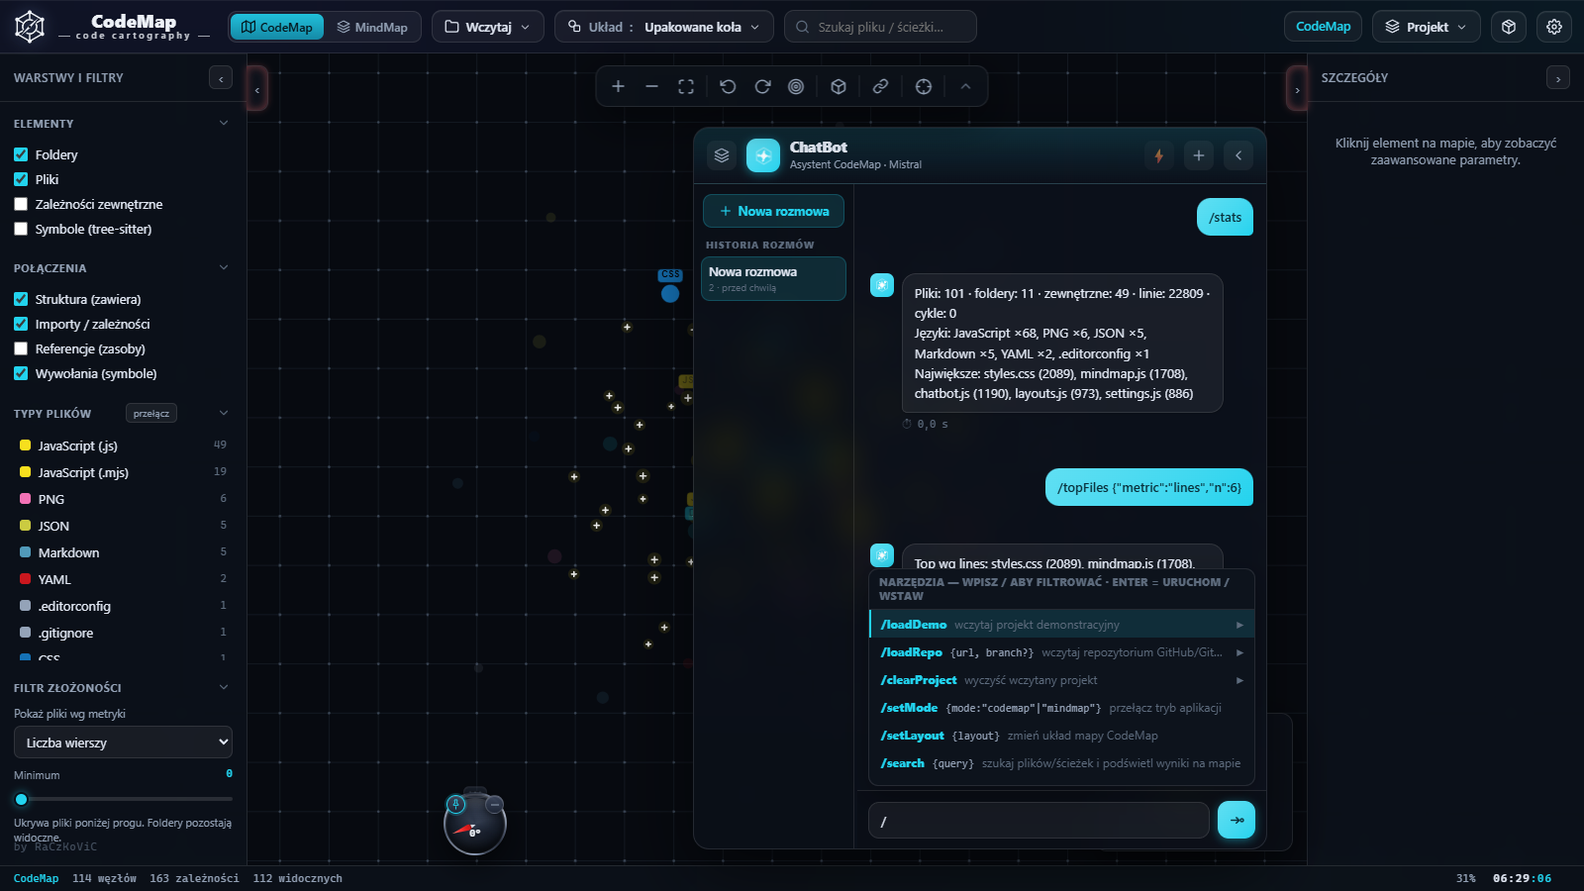
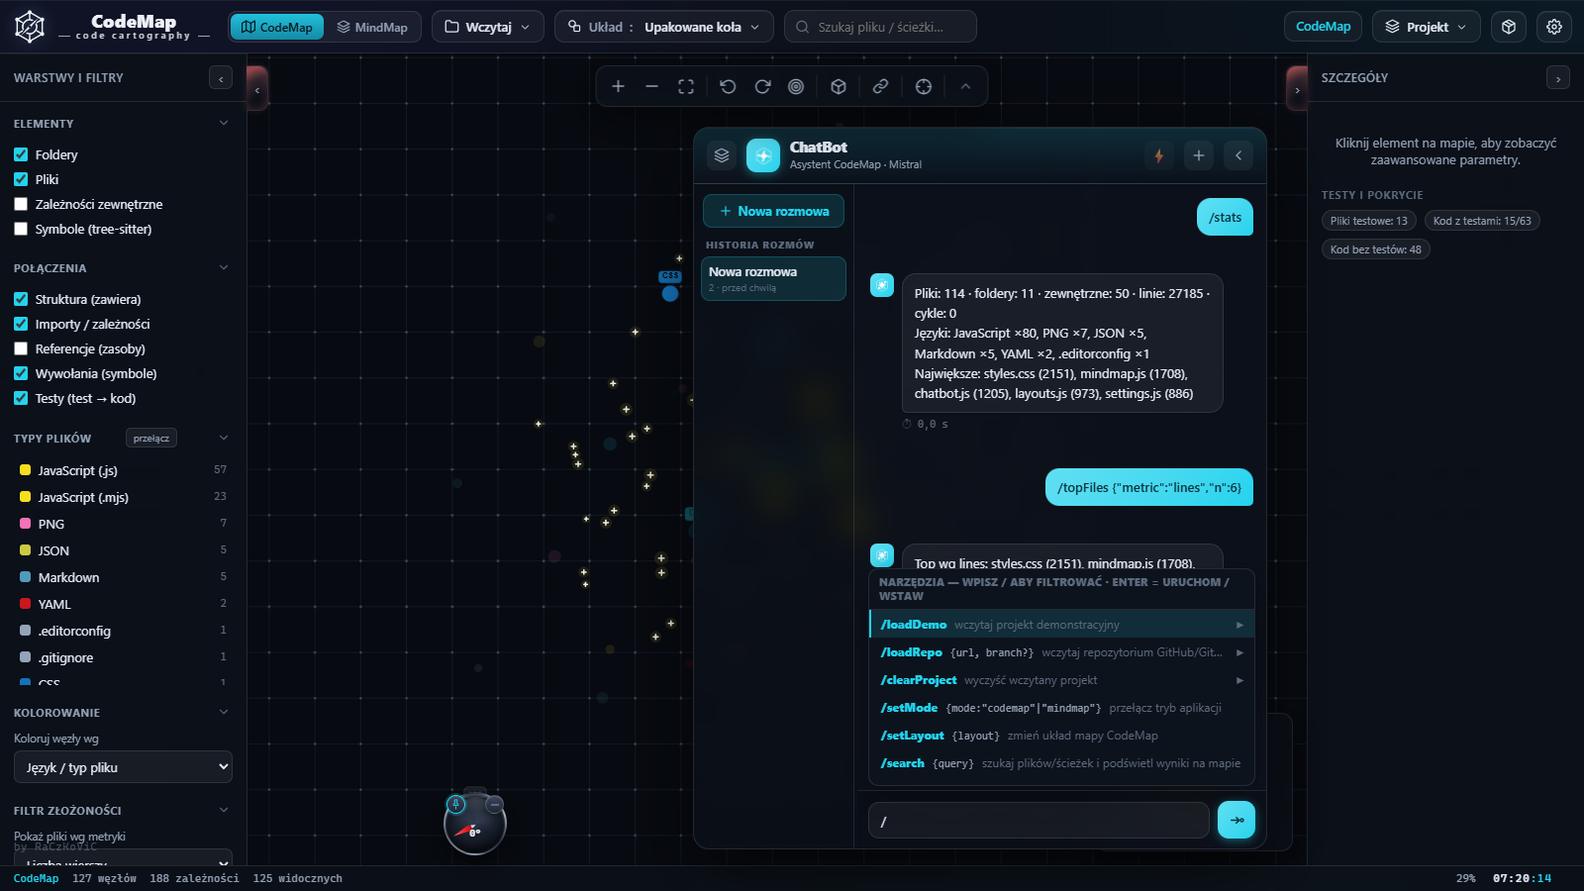
Faza 3: reguły Inspect z historii git, prefiks folderu korzenia, dokumentacja i zrzut historii git
- git-core.detectPrefix/prefixPaths: mapa „Projekt/…" (przeciągnięty folder, loadFiles) vs ścieżki
  git względem repozytorium — wcześniej 0 dopasowanych plików; test jednostkowy
- Inspect: „hotspoty zmian" (zmiany × złożoność, górne 10 %) i „wiedza w jednej głowie"
  (≥ 90 % zmian złożonego pliku od jednej osoby, projekty z ≥ 2 autorami)
- panel: czytelne źródło historii (lokalny .git / GitHub API …)
- docs/screenshot-git.png z prawdziwego .git repozytorium CodeMap (tools/screenshots.mjs);
  README (historia git, testy i pokrycie, moduły), CHANGELOG, ROADMAP: Faza 3 wykonana

diff --git a/index.html b/index.html
@@ -12,7 +12,7 @@
 <meta name="apple-mobile-web-app-capable" content="yes">
 <meta name="apple-mobile-web-app-status-bar-style" content="black-translucent">
 <meta name="apple-mobile-web-app-title" content="CodeMap">
-<link rel="stylesheet" href="css/styles.css?v=20260927o">
+<link rel="stylesheet" href="css/styles.css?v=20260927r">
 </head>
 <body>
 
@@ -559,47 +559,47 @@
 <input type="file" id="input-coverage" accept=".info,.lcov,.json,.xml" multiple hidden>
 
 <!-- ===================== SCRIPTS ===================== -->
-<script src="js/util.js?v=20260927o"></script>
-<script src="js/icons.js?v=20260927o"></script>
-<script src="js/i18n.js?v=20260927o"></script>
-<script src="js/languages.js?v=20260927o"></script>
-<script src="js/analysis.js?v=20260927o"></script>
-<script src="js/graph.js?v=20260927o"></script>
-<script src="js/layouts.js?v=20260927o"></script>
-<script src="js/export.js?v=20260927o"></script>
-<script src="js/metrics.js?v=20260927o"></script>
-<script src="js/git-core.js?v=20260927o"></script>
-<script src="js/rules.js?v=20260927o"></script>
-<script src="js/testmap.js?v=20260927o"></script>
-<script src="js/symbols-core.js?v=20260927o"></script>
-<script src="js/symbols.js?v=20260927o"></script>
-<script src="js/git-local.js?v=20260927o"></script>
-<script src="js/renderer.js?v=20260927o"></script>
-<script src="js/overlays.js?v=20260927o"></script>
-<script src="js/loaders.js?v=20260927o"></script>
-<script src="js/git-remote.js?v=20260927o"></script>
-<script src="js/storage.js?v=20260927o"></script>
-<script src="js/ui.js?v=20260927o"></script>
-<script src="js/settings.js?v=20260927o"></script>
-<script src="js/drive.js?v=20260927o"></script>
-<script src="js/auth.js?v=20260927o"></script>
-<script src="js/sync.js?v=20260927o"></script>
-<script src="js/inspect.js?v=20260927o"></script>
-<script src="js/localai.js?v=20260927o"></script>
-<script src="js/ollama.js?v=20260927o"></script>
-<script src="js/ai.js?v=20260927o"></script>
-<script src="js/runner.js?v=20260927o"></script>
-<script src="js/mmdraw.js?v=20260927o"></script>
-<script src="js/mindmap.js?v=20260927o"></script>
-<script src="js/chatbot.js?v=20260927o"></script>
-<script src="js/app-core.js?v=20260927o"></script>
-<script src="js/chrome.js?v=20260927o"></script>
-<script src="js/repo-hosts.js?v=20260927o"></script>
-<script src="js/compare.js?v=20260927o"></script>
-<script src="js/navigation.js?v=20260927o"></script>
-<script src="js/ai-bridge.js?v=20260927o"></script>
-<script src="js/tests-ui.js?v=20260927o"></script>
-<script src="js/git.js?v=20260927o"></script>
-<script src="js/app.js?v=20260927o"></script>
+<script src="js/util.js?v=20260927r"></script>
+<script src="js/icons.js?v=20260927r"></script>
+<script src="js/i18n.js?v=20260927r"></script>
+<script src="js/languages.js?v=20260927r"></script>
+<script src="js/analysis.js?v=20260927r"></script>
+<script src="js/graph.js?v=20260927r"></script>
+<script src="js/layouts.js?v=20260927r"></script>
+<script src="js/export.js?v=20260927r"></script>
+<script src="js/metrics.js?v=20260927r"></script>
+<script src="js/git-core.js?v=20260927r"></script>
+<script src="js/rules.js?v=20260927r"></script>
+<script src="js/testmap.js?v=20260927r"></script>
+<script src="js/symbols-core.js?v=20260927r"></script>
+<script src="js/symbols.js?v=20260927r"></script>
+<script src="js/git-local.js?v=20260927r"></script>
+<script src="js/renderer.js?v=20260927r"></script>
+<script src="js/overlays.js?v=20260927r"></script>
+<script src="js/loaders.js?v=20260927r"></script>
+<script src="js/git-remote.js?v=20260927r"></script>
+<script src="js/storage.js?v=20260927r"></script>
+<script src="js/ui.js?v=20260927r"></script>
+<script src="js/settings.js?v=20260927r"></script>
+<script src="js/drive.js?v=20260927r"></script>
+<script src="js/auth.js?v=20260927r"></script>
+<script src="js/sync.js?v=20260927r"></script>
+<script src="js/inspect.js?v=20260927r"></script>
+<script src="js/localai.js?v=20260927r"></script>
+<script src="js/ollama.js?v=20260927r"></script>
+<script src="js/ai.js?v=20260927r"></script>
+<script src="js/runner.js?v=20260927r"></script>
+<script src="js/mmdraw.js?v=20260927r"></script>
+<script src="js/mindmap.js?v=20260927r"></script>
+<script src="js/chatbot.js?v=20260927r"></script>
+<script src="js/app-core.js?v=20260927r"></script>
+<script src="js/chrome.js?v=20260927r"></script>
+<script src="js/repo-hosts.js?v=20260927r"></script>
+<script src="js/compare.js?v=20260927r"></script>
+<script src="js/navigation.js?v=20260927r"></script>
+<script src="js/ai-bridge.js?v=20260927r"></script>
+<script src="js/tests-ui.js?v=20260927r"></script>
+<script src="js/git.js?v=20260927r"></script>
+<script src="js/app.js?v=20260927r"></script>
 </body>
 </html>

diff --git a/js/inspect.js b/js/inspect.js
@@ -39,6 +39,9 @@ CM.Inspect = (function(){
     'r.untested':'Złożone pliki bez testów','r.untested.d':'Pliki kodu o złożoności ≥ 15 albo ≥ 200 liniach, do których nie prowadzi żaden test (ani po nazwie, ani po importach). Reguła działa tylko w projektach z plikami testowymi.',
     'r.lowcov':'Niskie pokrycie testami','r.lowcov.d':'Pliki o złożoności ≥ 10 z pokryciem linii poniżej 50 % według wczytanego raportu (lcov / Istanbul / Cobertura / JaCoCo / Clover).',
     'covPct':'pokrycie {p} % ({lh}/{lf} linii)',
+    'r.gitHotspot':'Hotspoty zmian (historia git)','r.gitHotspot.d':'Pliki jednocześnie często zmieniane i złożone (zmiany × złożoność, górne 10 %) — tu kumulują się błędy i koszt każdej zmiany; najlepsi kandydaci do refaktoryzacji.',
+    'r.silo':'Wiedza w jednej głowie (historia git)','r.silo.d':'Złożone, często zmieniane pliki, w których ≥ 90 % zmian pochodzi od jednej osoby — jej nieobecność zatrzymuje pracę nad nimi. Reguła działa w projektach z co najmniej dwoma autorami.',
+    'gitHot':'{c} zmian × złożoność {cx}','silo':'{who}: {s} % z {c} zmian',
   },
   en:{
     'title':'Static analysis',
@@ -70,6 +73,9 @@ CM.Inspect = (function(){
     'r.untested':'Complex files without tests','r.untested.d':'Code files with complexity ≥ 15 or ≥ 200 lines that no test reaches (neither by name nor by imports). Only checked in projects that have test files.',
     'r.lowcov':'Low test coverage','r.lowcov.d':'Files with complexity ≥ 10 and line coverage below 50 % according to the loaded report (lcov / Istanbul / Cobertura / JaCoCo / Clover).',
     'covPct':'coverage {p} % ({lh}/{lf} lines)',
+    'r.gitHotspot':'Change hotspots (git history)','r.gitHotspot.d':'Files that are both changed often and complex (changes × complexity, top 10 %) — bugs and the cost of every change pile up here; the best refactoring candidates.',
+    'r.silo':'Knowledge in one head (git history)','r.silo.d':'Complex, frequently changed files where ≥ 90 % of changes come from one person — their absence stalls work on them. Checked in projects with at least two authors.',
+    'gitHot':'{c} changes × complexity {cx}','silo':'{who}: {s} % of {c} changes',
   }};
   function t(k,sub){ const l=I.getLang(); const d=STR[l]||STR.pl; let s=(d&&k in d)?d[k]:(STR.pl[k]||k); if(sub) for(const p in sub) s=s.replace('{'+p+'}',sub[p]); return s; }
 
@@ -156,6 +162,21 @@ CM.Inspect = (function(){
     for(const f of lowcov){ const c=f.coverage;
       add(F,'lowcov', c.pct<20?'med':'low', f, t('covPct',{p:String(c.pct).replace('.', I.getLang()==='en'?'.':','), lh:c.lh, lf:c.lf})+' · CC≈'+(f.metrics.complexity||0)); }
 
+    // ---- historia git (CM.GitCore): hotspoty zmian i „wiedza w jednej głowie" ----
+    const gi=graph.gitInfo;
+    if(gi && CM.GitCore){ try{
+      const withGit=files.filter(f=>f.git&&f.git.c&&f.metrics);
+      const scored=withGit.map(f=>[f, CM.GitCore.hotspotScore(f)]).filter(x=>x[1]>0).sort((a,b)=>b[1]-a[1]);
+      const cut=scored.length?scored[Math.min(scored.length-1, Math.floor(scored.length*0.1))][1]:Infinity;
+      for(const [f,s] of scored){ if(s<cut || f.git.c<5 || (f.metrics.complexity||0)<15) continue;
+        add(F,'gitHotspot', s>=cut*3?'med':'low', f, t('gitHot',{c:f.git.c, cx:f.metrics.complexity||0})); }
+      const humans=(gi.authors||[]).filter(a=>!a.bot).length;
+      if(humans>=2) for(const f of withGit){ const g=f.git, cx=f.metrics.complexity||0;
+        if(g.own==null || g.share<0.9 || g.c<5 || (cx<20 && (f.metrics.lines||0)<300)) continue;
+        const who=(gi.authors[g.own]||{}).name||'?';
+        add(F,'silo','low',f, t('silo',{who, s:Math.round(g.share*100), c:g.c})); }
+    }catch(e){} }
+
     // ---- folder rules ----
     for(const fd of folders){
       const depth=(fd.path||'').split('/').filter(Boolean).length;
@@ -210,7 +231,7 @@ CM.Inspect = (function(){
     // ---- health score: 100 minus severity-weighted density ----
     let penalty=0; for(const f of F.values()) penalty+=SEV_W[f.sev]*f.count;
     const score=Math.max(0, Math.round(100 - 100*penalty/(penalty + 3*N)));
-    const order=['archviolation','cycles','god','unstable','fanout','huge','complex','lowcov','untested','risky','dupcode','orphan','emptycatch','debug','todo','deep','crowded','minified','archrules'];
+    const order=['archviolation','cycles','god','unstable','fanout','gitHotspot','huge','complex','lowcov','untested','silo','risky','dupcode','orphan','emptycatch','debug','todo','deep','crowded','minified','archrules'];
     const findings=[...F.values()].sort((a,b)=>order.indexOf(a.rule)-order.indexOf(b.rule));
     return {findings, score, files:files.length, ms:Math.round(performance.now()-t0)};
   }

diff --git a/js/git.js b/js/git.js
@@ -25,7 +25,7 @@
     'ov.others':'others','ov.noHistory':'no history','ov.churnNote':'Commits that changed the file (renames followed).',
     'ov.hotspotNote':'Frequently changed AND complex files — refactoring pays off most here.','ov.ageNote':'Date of the last commit touching the file.',
     'ov.ownerNote':'Author with the most changes in the file (bots skipped). Click a name to highlight their files.',
-    'git.section':'Git history','git.changes':'changes','git.recent':'last 90 days','git.last':'last change','git.born':'created',
+    'git.section':'Git history','git.srcLocal':'local .git','git.changes':'changes','git.recent':'last 90 days','git.last':'last change','git.born':'created',
     'git.owner':'Owner','git.authors':'Authors','git.busFactor':'Bus factor','git.busHint':'How many people would have to leave before more than half of the files lose everyone who knows them.',
     'git.noFileHistory':'No changes to this file in the analysed history.','git.commits':'commits','git.files':'files','git.run':'Analyse git history',
     'git.runLocal':'Reads the local .git directory — nothing leaves your device.','git.runRemote':'Uses the repository host API (commit lists + changed files).',
@@ -88,6 +88,7 @@
       if(my!==gen || g!==A.graph) return null;
       let commits=r.commits||[]; if(meta.sub && src!=='local') commits=GC.rebase(commits, meta.sub);
       const paths=[...fileMap(g).keys()];
+      const pre=GC.detectPrefix(commits, paths); if(pre) commits=GC.prefixPaths(commits, pre);   // „Projekt/…" na mapie
       const res=GC.analyze(commits, paths);
       const st=r.stats||{};
       const hit=GC.applyToGraph(g, res, {source:src, head:r.head||null, truncated:!!st.truncated, listed:st.listed||commits.length,
@@ -368,7 +369,8 @@
       return sec;
     }
     const cols=authorColors(gi), au=gi.authors;
-    const sec=el('div',{class:'det-section git-card'}, el('h5',{}, T('git.section','Historia git'), el('span',{class:'muted',text:gi.source})));
+    const SRC={local:T('git.srcLocal','lokalny .git'), github:'GitHub API', gitlab:'GitLab API', bitbucket:'Bitbucket API'};
+    const sec=el('div',{class:'det-section git-card'}, el('h5',{}, T('git.section','Historia git'), el('span',{class:'muted git-src',text:SRC[gi.source]||gi.source})));
     const tags=el('div',{});
     tags.appendChild(el('span',{class:'tag',text:U.fmtNum(gi.commits)+' '+T('git.commits','commitów')}));
     tags.appendChild(el('span',{class:'tag',text:U.fmtNum(au.filter(a=>!a.bot).length)+' '+T('git.authors','autorów').toLowerCase()}));

diff --git a/js/git-core.js b/js/git-core.js
@@ -60,6 +60,22 @@ CM.GitCore = (function(){
     });
   }
 
+  // ścieżki git są względem korzenia repozytorium, a mapa bywa zbudowana z folderem korzenia na początku
+  // (przeciągnięty folder: „Projekt/src/x.js"). Zwraca prefiks „Projekt/", jeśli z nim dopasowuje się więcej
+  // ścieżek z historii niż bez niego; inaczej ''.
+  function detectPrefix(commits, mapPaths){
+    const paths=[...mapPaths]; if(!paths.length) return '';
+    const first=paths[0].split('/')[0]; if(!first || paths[0]===first) return '';
+    const pre=first+'/'; if(!paths.every(p=>p.startsWith(pre))) return '';
+    const set=new Set(paths); let plain=0, pref=0, k=0;
+    outer: for(const c of commits||[]) for(const f of (c.files||[])){ if(set.has(f.path)) plain++; if(set.has(pre+f.path)) pref++; if(++k>=4000) break outer; }
+    return pref>plain?pre:'';
+  }
+  function prefixPaths(commits, pre){
+    if(!pre) return commits;
+    return commits.map(c=>Object.assign({}, c, {files:(c.files||[]).map(f=>{ const g=Object.assign({}, f, {path:pre+f.path}); if(f.from!=null) g.from=pre+f.from; return g; })}));
+  }
+
   // ---------------- analiza ----------------
   // currentPaths: ścieżki plików na mapie (względem jej korzenia). opts: {maxTimeline=3000, maxEventsPerCommit=300}
   function analyze(commits, currentPaths, opts){
@@ -237,6 +253,6 @@ CM.GitCore = (function(){
 
   function initials(name){ const p=normName(name).split(' ').filter(Boolean); return ((p[0]||'?')[0]+(p.length>1?p[p.length-1][0]:(p[0]||'')[1]||'')).toUpperCase(); }
 
-  return {analyze, identities, rebase, busFactor, busFactorFor, hotspotScore, births, timelineFromSnapshots, applyToGraph, folderStats,
+  return {analyze, identities, rebase, detectPrefix, prefixPaths, busFactor, busFactorFor, hotspotScore, births, timelineFromSnapshots, applyToGraph, folderStats,
     initials, normName, loginFromEmail, isBot, ST_CODE, ST_CHAR, RECENT_DAYS};
 })();

diff --git a/css/styles.css b/css/styles.css
@@ -367,6 +367,7 @@ body.light .code-preview,body.light .fv-codewrap{background:#0d1320;color:#aebac
 .git-pill .gp-x{background:none;border:0;color:inherit;font-size:16px;line-height:1;cursor:pointer;opacity:.7;padding:0 2px}
 .git-pill .gp-x:hover{opacity:1}
 .git-card .tag{margin:0 4px 4px 0}
+.git-card h5 .git-src{text-transform:none;letter-spacing:0;font-weight:500}
 .git-authors{margin-top:6px}
 .git-authors .bar-row .bl{display:flex;align-items:center;gap:6px;min-width:0}
 .git-an span:last-child{overflow:hidden;text-overflow:ellipsis;white-space:nowrap}

diff --git a/sw.js b/sw.js
@@ -1,5 +1,5 @@
 /* ===================== sw.js — CodeMap service worker (offline app shell) ===================== */
-const CACHE = 'codemap-shell-v107';
+const CACHE = 'codemap-shell-v110';
 const CORE = ['./', 'index.html', 'manifest.webmanifest', 'icon-192.png', 'icon-512.png', 'icon-maskable-512.png'];
 // Version-less fallback list (used only if parsing index.html fails); the fetch handler's
 // ignoreSearch fallback makes these serve ?v=... requests offline too.

diff --git a/README.md b/README.md
@@ -19,6 +19,10 @@
 |:---:|:---:|
 | [![Graf symboli: funkcje pliku symbols-core.js i ich wywołania, panel szczegółów symbolu](docs/screenshot-symbols.png)](docs/screenshot-symbols.png) | [![ChatBot: wyniki /stats i /topFiles oraz lista narzędzi po wpisaniu /](docs/screenshot-chatbot.png)](docs/screenshot-chatbot.png) |
 
+| Historia git z lokalnego `.git`: częstość zmian, oś czasu, autorzy, testy ↔ kod |
+|:---:|
+| [![Oś czasu historii git: pliki zmienione w ostatnich commitach świecą, etykieta autora z promieniami do plików, kolorowanie wg częstości zmian, zielone krawędzie test → kod](docs/screenshot-git.png)](docs/screenshot-git.png) |
+
 <sub>Zrzuty przedstawiają samo repozytorium CodeMap wczytane jako projekt; odtwarza je `node tools/screenshots.mjs`.</sub>
 
 ---
@@ -83,6 +87,15 @@ Kliknij **„✨ Zobacz demo"** lub otwórz `index.html#demo`.
   języka, złożoności i daty modyfikacji; legenda z licznikami, klik podświetla pliki.
 - **Oś czasu** — animowana ewolucja projektu (Gource-lite): pliki pojawiają się w kolejności powstania,
   zmiany świecą kolorem autora; bez historii git — oś czasu z migawek.
+- Inspect: reguły **hotspoty zmian** i **wiedza w jednej głowie** (≥ 90 % zmian złożonego pliku od jednej osoby).
+
+### Testy i pokrycie
+- CodeMap sam wiąże **testy z testowanym kodem** — po nazwie (także ścieżki lustrzane `test/` ↔ `src/`,
+  `src/test/java` ↔ `src/main/java`) i po importach, dla kilkunastu języków; krawędzie „Testy (test → kod)".
+- **Pokrycie** z lcov, Istanbul (`coverage-final.json`, `coverage-summary.json`), Cobertura, JaCoCo i Clover —
+  wczytywane samo z `coverage/` wczytanego folderu, z menu Projekt → „Wczytaj pokrycie testów" albo przez
+  przeciągnięcie raportu na mapę. Kolorowanie „Pokrycie testami" i „Testy", sekcja „Testy i pokrycie"
+  w panelu, niepokryte linie w podglądzie pliku, reguły Inspect „złożone pliki bez testów" i „niskie pokrycie".
 
 ### Inspect — analiza statyczna
 16 reguł antywzorców (cykle, god-file, huby, sieroty, złożoność, ryzykowne API, puste `catch`, kod debug,
@@ -181,6 +194,8 @@ js/export.js               # eksport widocznego grafu: DOT (Graphviz), Mermaid, 
 js/metrics.js              # sprzężenia Ca/Ce/I per plik i folder, duplikaty kodu (winnowing)
 js/rules.js                # reguły architektury z .codemap.rules.json (warstwy, forbid, noCycles)
 js/git-core.js             # historia git bez DOM: autorzy, własność, bus factor, hotspoty, oś czasu
+js/git-local.js  js/git-worker.js   # czytnik lokalnego .git (obiekty, paczki, delty, packed-refs) w Web Workerze
+js/testmap.js              # testy ↔ kod, parsery pokrycia (lcov / Istanbul / Cobertura / JaCoCo / Clover)
 js/renderer.js             # canvas: rysowanie, hit-test, interakcje, minimapa, dekoratory modułów
 js/overlays.js             # kolorowanie węzłów wg danych (język, złożoność, git, pokrycie) + legenda
 js/loaders.js              # folder / pliki / archiwa / PDF / GitHub / GitLab / Bitbucket / Mistral; pliki boczne (.git, lcov)
@@ -201,6 +216,7 @@ js/compare.js              # porównywanie schematów, cykle, historia migawek i
 js/navigation.js           # radar okolicy, minimapa, tarcza obrotu, nawigacja WASD, menu kontekstowe, eksport obrazu
 js/ai-bridge.js            # AI (Mistral/lokalne), most ChatBota (appState/exec, registerAction), paleta Ctrl+K, dane demo
 js/git.js                  # historia git na mapie: uruchamianie, nakładki, panel, awatary, oś czasu, akcje ChatBota
+js/tests-ui.js             # testy i pokrycie w aplikacji: nakładki, panel, Inspect, ChatBot, wczytywanie raportów
 js/app.js                  # bootstrap: CM.App.boot() + window.CMApp (API dla chatbot/drive/inspect/smoke)
 sw.js  manifest.webmanifest  serve.py                       # PWA i lokalny serwer
 ```
@@ -240,7 +256,7 @@ Zasady, które utrzymują projekt prostym:
 - każdy tekst w UI przez `CM.i18n.t()` z tłumaczeniem PL **i** EN;
 - zmiana plików `js/` lub `css/` = bump `?v=` w `index.html` i `CACHE` w `sw.js`;
 - `index.html` edytuj narzędziem zachowującym UTF-8;
-- przed commitem `npm run verify` (testy, lint, sonda gramatyk) i `node tools/smoke.mjs` (headless Chrome);
+- przed commitem `npm run verify` (testy, lint, sonda gramatyk, sonda `.git` zgodna z `git log`) i `node tools/smoke.mjs` (headless Chrome);
   po zmianach w wyglądzie `node tools/screenshots.mjs` odświeża zrzuty w `docs/`.
 
 Historia zmian: [CHANGELOG.md](CHANGELOG.md).

diff --git a/CHANGELOG.md b/CHANGELOG.md
@@ -7,7 +7,13 @@ Numer wersji aplikacji: `CM.VERSION` w `js/util.js` (Ustawienia → O aplikacji)
 
 Fazy 2 i 3 planu rozwoju — głębsza analiza i inteligencja git ([docs/ROADMAP.md](docs/ROADMAP.md)).
 
-### Dodane — Faza 3 (historia git)
+### Dodane — Faza 3 (historia git, testy i pokrycie)
+- **Czytnik lokalnego `.git` w przeglądarce** (`js/git-local.js` + `js/git-worker.js`, bez zależności): HEAD i refy
+  (luźne, `packed-refs`, tagi adnotowane), obiekty luźne i paczki (`.idx` v1/v2 z offsetami 64-bit, OFS_DELTA,
+  REF_DELTA), czytanie wycinkami `Blob.slice` (paczki nie są ładowane w całości), LRU zdekodowanych obiektów,
+  historia w kolejności `git log` z diffem drzew i dokładnym wykrywaniem zmian nazw, płytkie klony,
+  anulowanie; w Web Workerze z przejściem na wątek główny. Zgodność z `git log` sprawdza `tools/git-probe.mjs`
+  (w `npm run verify`); 2000 commitów dużego repozytorium ≈ 1 s.
 - **Historia git** (`js/git-core.js`, `js/git-remote.js`, `js/git.js`): folder wczytany razem z katalogiem
   `.git` jest analizowany sam, lokalnie i bez sieci; repozytorium z GitHub / GitLab / Bitbucket — na żądanie
   (Projekt → Historia git) przez API hostingu, z oszczędzaniem limitu zapytań (pliki dla najnowszych commitów,
@@ -25,6 +31,15 @@ Fazy 2 i 3 planu rozwoju — głębsza analiza i inteligencja git ([docs/ROADMAP
   zmienione świecą kolorem autora, nad nimi etykiety autorów z promieniami; odtwarzanie 0,5×–40×, suwak;
   bez historii git — oś czasu z migawek projektu.
 - ChatBot: `gitHistory`, `owners {query?}`, `busFactor {query?}`, `churn {n?}`, `timeline {action}`, `colorBy`.
+- Inspect: reguły „hotspoty zmian" (zmiany × złożoność, górne 10 %) i „wiedza w jednej głowie" (≥ 90 % zmian
+  złożonego, często zmienianego pliku od jednej osoby; projekty z ≥ 2 autorami).
+- **Testy ↔ kod i pokrycie** (`js/testmap.js`, `js/tests-ui.js`): mapowanie testów do kodu po nazwie (także
+  ścieżki lustrzane `test/` ↔ `src/`, `src/test/java` ↔ `src/main/java`) i po importach, dla kilkunastu języków;
+  krawędzie „Testy (test → kod)". Pokrycie z lcov, Istanbul (`coverage-final.json` i `coverage-summary.json`),
+  Cobertura, JaCoCo i Clover — automatycznie z `coverage/`, z menu „Projekt → Wczytaj pokrycie testów" albo przez
+  upuszczenie raportu na mapę. Nakładki „Testy" i „Pokrycie", sekcja „Testy i pokrycie" w panelu szczegółów,
+  niepokryte linie w podglądzie pliku, reguły Inspect „złożone pliki bez testów" i „niskie pokrycie testami",
+  akcje ChatBota `tests`, `coverage`, `loadCoverage`; dwa pliki testowe w demo.
 - Loader przekazuje „pliki boczne" (uchwyty katalogu `.git` i raportów pokrycia, także z pomijanego
   `coverage/`) bez ich czytania; historia i dane git zapisują się w pliku mapy.
 

diff --git a/docs/ROADMAP.md b/docs/ROADMAP.md
@@ -63,7 +63,7 @@ Publikacja:
 - [x] Wyszukiwanie w treści plików z wynikami na mapie (narzędzie ChatBota `/findText`; POZOSTAŁO: pole w UI i regex); parsery Swift/Dart/Elixir/Lua/Zig/Haskell/Shell (Kotlin/Scala już w rodzinie Java).
 - [x] Eksport DOT / GraphML / Mermaid (`js/export.js`, menu Projekt, paleta Ctrl+K, akcja ChatBota `exportGraph`).
 
-## Faza 3 — inteligencja git — W TOKU 2026-09-27
+## Faza 3 — inteligencja git — WYKONANA 2026-09-27 (zostały drobne: rename z edycją — podobieństwo treści, reftable / SHA-256, Go `coverage.out`)
 
 - [x] Hotspoty churn × złożoność — z lokalnego `.git` (czytnik obiektów i paczek w przeglądarce) albo z API
   GitHub/GitLab/Bitbucket (lista commitów + zmienione pliki per commit w budżecie limitu, zamiast
@@ -71,7 +71,10 @@ Publikacja:
 - [x] Ownership per plik i bus factor (projekt i folder); awatary / inicjały właścicieli na węzłach.
 - [x] Suwak czasu: animowana ewolucja z historii git albo z migawek (Gource-lite: pojawianie się plików,
   poświata zmian w kolorze autora, etykiety autorów).
-- [ ] Mapowanie testów do kodu (`*.test`/`*.spec` → podmiot) i nakładka pokrycia z lcov.
+- [x] Mapowanie testów do kodu (nazwa, ścieżki lustrzane, importy; kilkanaście języków) i nakładka pokrycia
+  z lcov / Istanbul / Cobertura / JaCoCo / Clover (`js/testmap.js`, `js/tests-ui.js`).
+- [x] Dodatkowo: czytnik lokalnego `.git` w przeglądarce (`js/git-local.js`, sonda zgodności z `git log`),
+  kolorowanie węzłów wg danych (`js/overlays.js`), reguły Inspect „hotspoty zmian" i „wiedza w jednej głowie".
 
 ## Faza 4 — ekosystem
 
